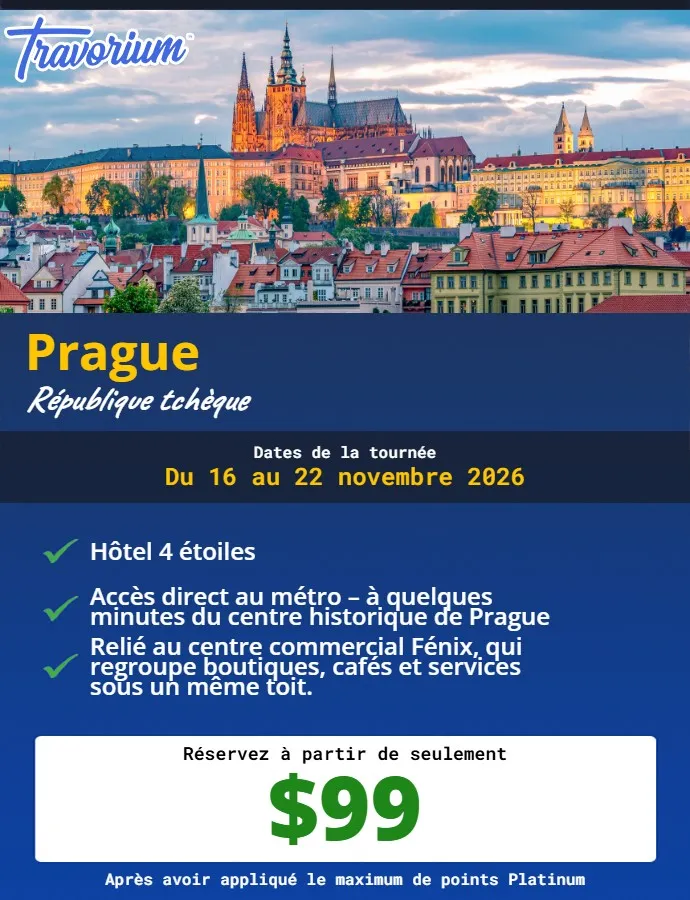
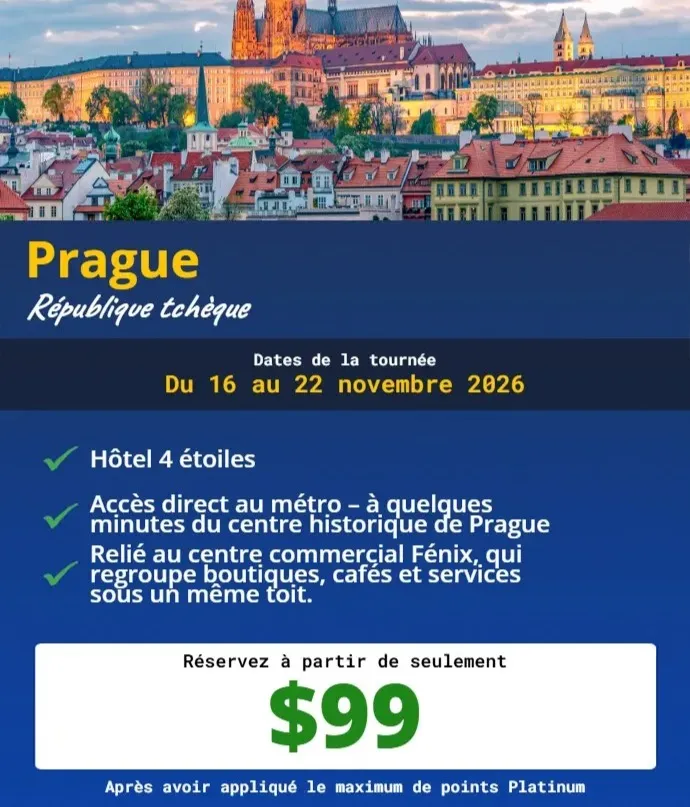
plop

diff --git a/index.html b/index.html
@@ -521,7 +521,7 @@ margin-top: 60px;
 <div class="contenu-menu">
 <a href="#comparatifs-travel-site">Travel site</a>
 <a href="#comparatifs-world-tour">World Tour</a>
-<a href="#comparatifs-gateway">Gateway</a>
+<a href="#comparatifs-Getaway">Getaway</a>
 </div>
 </li>
 
@@ -650,25 +650,25 @@ alt="Worldtour Doha" class="review-box">
 </div>
 </section>
 
-<section id="comparatifs-gateway">
-<h2>Nos économies en Gateway</h2>
+<section id="comparatifs-Getaway">
+<h2>Nos économies en Getaway</h2>
 <div class="calendar-grid">
 <div class="trip-card">
-<img id="review-image-Gateway Afrique Du Sud"
-src="./assets\Gateway Afrique Du Sud.webp"
-alt="Gateway Afrique Du Sud" class="review-box">
+<img id="review-image-Getaway Afrique Du Sud"
+src="./assets\Getaway Afrique Du Sud.webp"
+alt="Getaway Afrique Du Sud" class="review-box">
 </div>
 
 <div class="trip-card">
-<img id="review-image-Gateway Alicante"
-src="./assets\Gateway Alicante.webp"
-alt="Gateway Alicante" class="review-box">
+<img id="review-image-Getaway Alicante"
+src="./assets\Getaway Alicante.webp"
+alt="Getaway Alicante" class="review-box">
 </div>
 
 <div class="trip-card">
-<img id="review-image-Gateway Angleterre"
-src="./assets\Gateway Angleterre.webp"
-alt="image-Gateway Angleterre" class="review-box">
+<img id="review-image-Getaway Angleterre"
+src="./assets\Getaway Angleterre.webp"
+alt="image-Getaway Angleterre" class="review-box">
 </div>
 </div>
 </section>